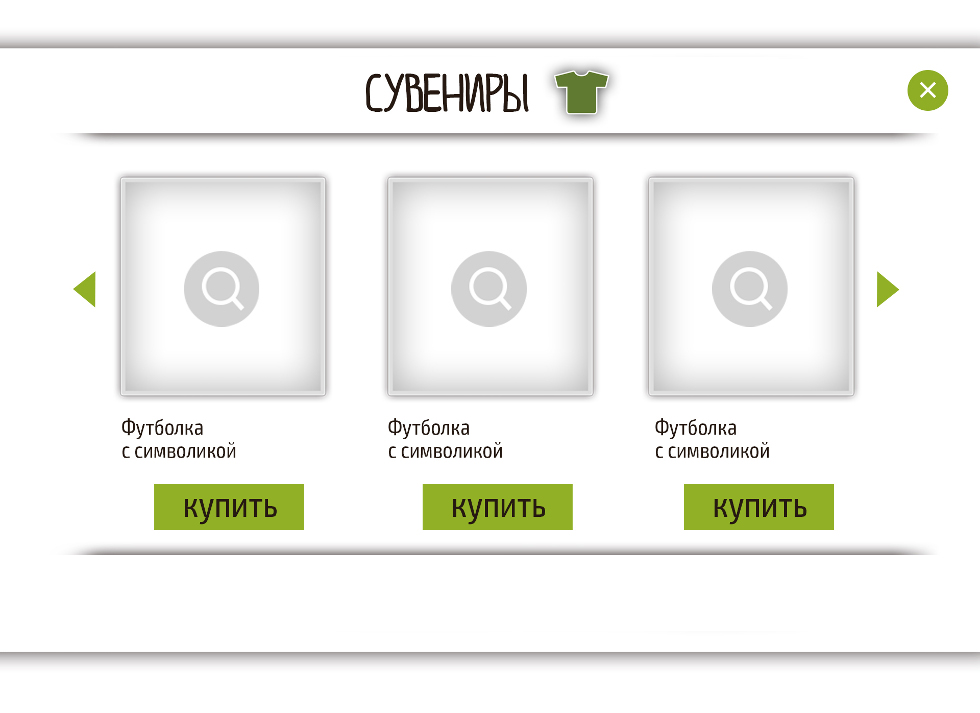
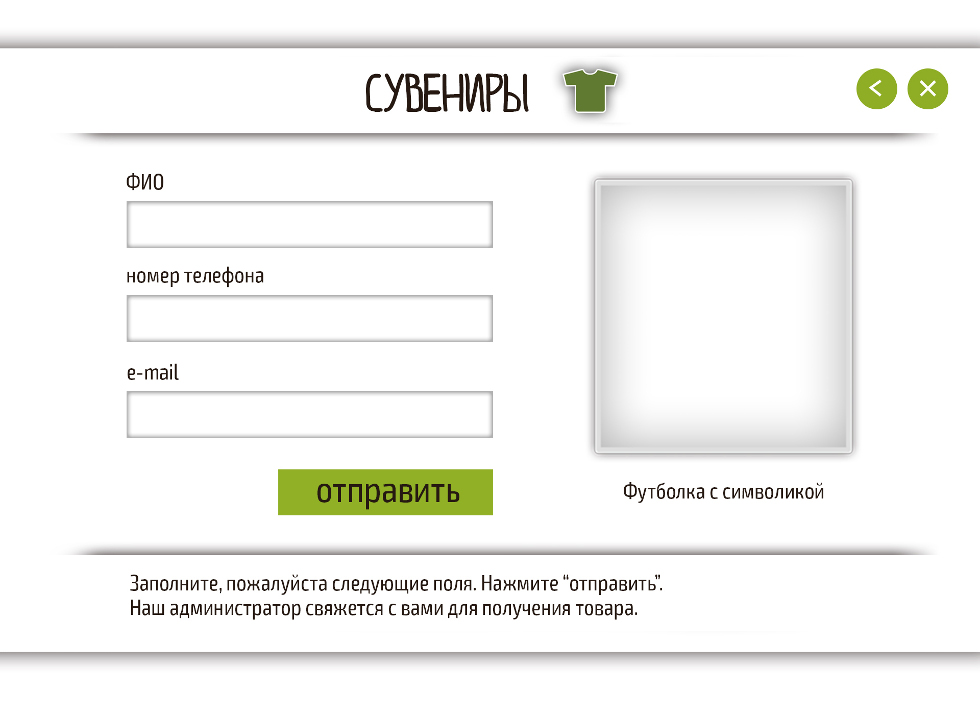
Add souvenir order form

diff --git a/src/main/js/components/SouvenirOrder/SouvenirOrder.js b/src/main/js/components/SouvenirOrder/SouvenirOrder.js
@@ -1,0 +1,88 @@
+'use strict';
+
+import './SouvenirOrder.css';
+
+import React from 'react';
+
+import SelfUpdatingComponent from '../SelfUpdatingComponent';
+import ModalHeader from '../Modal/ModalHeader/ModalHeader';
+import ModalFooter from '../Modal/ModalFooter/ModalFooter';
+
+import Actions from '../../actions/Actions';
+import SouvenirsStore from '../../stores/SouvenirsStore';
+
+export default class SouvenirOrder extends SelfUpdatingComponent {
+    constructor(props) {
+        super(props);
+        this.store = SouvenirsStore;
+        this.lazyLoadStoreAction = Actions.lazyLoadSouvenirs;
+
+        this.submitForm = this.submitForm.bind(this);
+    }
+
+    onPropsChange(props, storeState) {
+        if (!storeState.loaded) {
+            this.setState({ loaded: false });
+            return;
+        }
+        this.setState({
+            loaded: true,
+            souvenir: this.store.getSouvenirById(parseInt(props.params.souvenirId, 10)),
+            form: {
+                fio: "",
+                phone: "",
+                email: ""
+            }
+        });
+    }
+
+    submitForm() {
+        if (console)
+            console.log("Отпарвка зарабоатет, когда появится админка");
+    }
+
+    render() {
+        if (this.state.loaded === false)
+            return (<div className="modal_loader">Загрузка сувениров...</div>);
+        var souvenir = this.state.souvenir;
+        var imageElement = souvenir.photoName ?
+            <img src={`/images/photos/souvenirs/${souvenir.photoName}`} alt="image" className="souvenirOrder_image"/>
+            : null;
+        return (
+            <div className="souvenirOrder">
+                <ModalHeader title="СУВЕНИРЫ" iconType="t-shirt" backUrl="/souvenirs"/>
+                <div className="souvenirOrder_content modal_content">
+                    <div className="souvenirOrder_left">
+                        <form onSubmit={this.submitForm}>
+                            <div className="souvenirOrder_row">
+                                <div className="souvenirOrder_text">ФИО</div>
+                                <input type="text" onChange={this.handleFioChange} />
+                            </div>
+                            <div className="souvenirOrder_row">
+                                <div className="souvenirOrder_text">номер телефона</div>
+                                <input type="text" onChange={this.handlePhonehange} />
+                            </div>
+                            <div className="souvenirOrder_row">
+                                <div className="souvenirOrder_text">e-mail</div>
+                                <input type="text" onChange={this.handleEmailChange} />
+                            </div>
+                            <div className="button souvenirOrder_submitButton" onClick={this.submitForm}>отправить</div>
+                        </form>
+                    </div>
+                    <div className="souvenirOrder_right">
+                        <div className="photoFrame souvenirOrder_photoFrame">
+                            {imageElement}
+                        </div>
+                        <div className="souvenirOrder_souvenirName">{souvenir.name}</div>
+                    </div>
+                </div>
+                <ModalFooter>
+                    <div className="souvenirOrder_footerText">
+                        Заполните, пожалуйста, следующие поля. Нажмите "отправить".<br/>
+                        Наш администратор свяжется с вами для получения товара.
+                    </div>
+                </ModalFooter>
+            </div>
+        );
+    }
+}

diff --git a/src/main/js/app/app.js b/src/main/js/app/app.js
@@ -18,6 +18,7 @@ import GraduateEdit from '../components/GraduateEdit/GraduateEdit';
 import Teachers from '../components/Teachers/Teachers';
 import Administration from '../components/Administration/Administration';
 import Souvenirs from '../components/Souvenirs/Souvenirs';
+import SouvenirOrder from '../components/SouvenirOrder/SouvenirOrder';
 import {triggerClickEvent} from '../utils';
 
 class EmptyModal extends React.Component {
@@ -61,6 +62,12 @@ class AdministrationModal extends React.Component {
 class SouvenirsModal extends React.Component {
   render() {
     return renderModalWithComponent(Souvenirs, this.props.params);
+  }
+}
+
+class SouvenirOrderModal extends React.Component {
+  render() {
+    return renderModalWithComponent(SouvenirOrder, this.props.params);
   }
 }
 
@@ -119,6 +126,7 @@ class App {
         <Route path="/teachers(/:teacherId)" component={TeachersModal}/>
         <Route path="/administration(/:employeeId)" component={AdministrationModal}/>
         <Route path="/souvenirs" component={SouvenirsModal}/>
+        <Route path="/souvenirs/order/:souvenirId" component={SouvenirOrderModal}/>
         <Route path="*" component={null}/>
       </Router>
     ), document.getElementsByClassName('ReactModalPortal')[0]);

diff --git a/src/main/js/components/SouvenirOrder/SouvenirOrder.css b/src/main/js/components/SouvenirOrder/SouvenirOrder.css
@@ -1,0 +1,63 @@
+.souvenirOrder_left, .souvenirOrder_right {
+    display: inline-block;
+    vertical-align: top;
+}
+
+.souvenirOrder_left {
+    margin: 33px 0 0 75px;
+}
+
+.souvenirOrder_text {
+    font-size: 22px;
+    margin-bottom: 8px;
+}
+
+.souvenirOrder_row {
+    margin-bottom: 12px;
+}
+
+.souvenirOrder input[type="text"] {
+    width: 355px;
+}
+
+.souvenirOrder_submitButton {
+    margin: 32px 0 0 151px;
+    color: black;
+    width: 216px;
+    line-height: 38px;
+}
+
+.souvenirOrder_right {
+    margin: 36px 0 0 92px;
+}
+
+.souvenirOrder_photoFrame {
+    width: 241px;
+    height: 257px;
+    background-size: 277px 293px;
+    padding: 18px;
+    display: -webkit-box;
+    display: -moz-box;
+    display: -ms-flexbox;
+    display: -webkit-flex;
+    display: flex;
+    align-items: center;
+    justify-content: center;
+}
+
+.souvenirOrder_image {
+    max-width: 242px;
+    max-height: 256px;
+}
+
+.souvenirOrder_souvenirName {
+    font-size: 22px;
+    margin-top: 14px;
+    text-align: center;
+    width: 277px;
+}
+
+.souvenirOrder_footerText {
+    font-size: 22px;
+    margin: 13px 0 0 120px;
+}

diff --git a/src/main/js/components/GraduateEdit/GraduateEdit.js b/src/main/js/components/GraduateEdit/GraduateEdit.js
@@ -1,4 +1,4 @@
-"use strict";
+'use strict';
 
 import './GraduateEdit.css';
 import './GraduateEdit-placeholders.css';
@@ -7,7 +7,7 @@ import React from 'react';
 import MaskedInput from 'react-maskedinput';
 import FileDrop from 'react-file-drop';
 
-import GraduateClassesStore from '../../stores/GraduateClassesStore'
+import GraduateClassesStore from '../../stores/GraduateClassesStore';
 
 import ModalHeader from '../Modal/ModalHeader/ModalHeader';
 import ModalFooter from '../Modal/ModalFooter/ModalFooter';
@@ -62,8 +62,9 @@ export default class GraduateEdit extends React.Component {
     }
 
     handleSubmit() {
-        console.log(this.state);
-        alert("Отправка данных на сервер заработает, когда появится админка");
+        // console.log(this.state);
+        if (console)
+            console.log("Отпарвка зарабоатет, когда появится админка");
     }
 
     handleFioChange(event) {

diff --git a/src/main/js/components/Souvenirs/Souvenirs.js b/src/main/js/components/Souvenirs/Souvenirs.js
@@ -46,6 +46,12 @@ export default class Souvenirs extends SelfUpdatingComponent {
 
     handleItemClick(event) {
         console.log(event.currentTarget.getAttribute("data-id"));
+        
+    }
+
+    handleBuyButtonClick(event) {
+        var id = event.currentTarget.getAttribute("data-id");
+        Actions.routeTo(`/souvenirs/order/${id}`)
     }
 
     render() {
@@ -66,7 +72,7 @@ export default class Souvenirs extends SelfUpdatingComponent {
                         {imageElements}
                     </div>
                     <div className="souvenirs_itemName">{obj.name}</div>
-                    <div className="souvenirs_buyButton">КУПИТЬ</div>
+                    <div className="button souvenirs_buyButton" data-id={obj.id} onClick={this.handleBuyButtonClick}>КУПИТЬ</div>
                 </div>
             )
         }

diff --git a/src/main/js/components/GraduateClass/GraduateInfo/GraduateInfo.js b/src/main/js/components/GraduateClass/GraduateInfo/GraduateInfo.js
@@ -104,7 +104,7 @@ export default class GraduateInfo extends React.Component {
                 <div className="graduateInfo">
                     <div className="graduateInfo_left">
                         <div className="photoFrame graduateInfo_photoFrame">
-                            <img src={photoSrc} alt="photo" className="graduateInfo_photo"></img>
+                            <img src={photoSrc} alt="photo" className="graduateInfo_photo"/>
                         </div>
                         <div className="GraduateInfo_links">
                             {generateLink(graduate.facebookLink, "graduateInfo_socialLogo facebookLogo")}

diff --git a/src/main/js/app/app.css b/src/main/js/app/app.css
@@ -104,3 +104,30 @@ body {
 .arrow_right {
     background-image: url(./images/arrow_right.png);
 }
+
+/* inputs */
+
+input, textarea {
+    font-family: 'Exo 2 LightCondensed';
+    border: solid 1px lightgrey;
+    box-shadow: 0px 0px 2px 1px darkgrey inset;
+    padding: 0 5px;
+}
+
+input {
+    height: 46px;
+    font-size: 40px;
+}
+
+textarea {
+    font-size: 30px;
+}
+
+.button {
+    height: 46px;
+    color: white;
+    background-color: #91b026;
+    text-align: center;
+    cursor: pointer;
+    font-size: 36px;
+}

diff --git a/src/main/js/components/GraduateEdit/GraduateEdit.css b/src/main/js/components/GraduateEdit/GraduateEdit.css
@@ -33,24 +33,8 @@
     margin: 17px 0 0 50px;
 }
 
-.graduateEdit input, .graduateEdit textarea {
-    font-family: 'Exo 2 LightCondensed';
-    border: solid 1px lightgrey;
-    box-shadow: 0px 0px 2px 1px darkgrey inset;
-    padding: 0 5px;
-}
-
 .graduateEdit .graduateEdit_left input, .graduateEdit .graduateEdit_left textarea {
     margin-bottom: 16px;
-}
-
-.graduateEdit input {
-    height: 46px;
-    font-size: 40px;
-}
-
-.graduateEdit textarea {
-    font-size: 30px;
 }
 
 .graduateEdit_yearAndClass {

diff --git a/src/main/js/stores/SouvenirsStore.js b/src/main/js/stores/SouvenirsStore.js
@@ -17,7 +17,7 @@ var SouvenirsStore = Reflux.createStore({
     getSouvenirById(id) {
         if (!this.state.loaded)
             throw new Error("SouvenirsStore is not loaded yet");
-        var found = this.state.list.find(teacher => teacher.id === id);
+        var found = this.state.list.find(souvenir => souvenir.id === id);
         if (!found)
             throw new Error(`Cannot find souvenir with id ${id}`);
         return found;

diff --git a/src/main/js/components/Souvenirs/Souvenirs.css b/src/main/js/components/Souvenirs/Souvenirs.css
@@ -58,14 +58,14 @@
     margin: 10px 0 0 8px;
 }
 
-.souvenirs_buyButton {
-    cursor: pointer;
+.button.souvenirs_buyButton {
+    color: black;
     margin: 45px 0 0 41px;
-    width: 115px;
-    height: 40px;
+    width: 149px;
     background-color: #91b026;
-    font-size: 27px;
-    padding: 6px 0 0 35px;
+    font-size: 28px;
+    line-height: 45px;
+    /*padding: 6px 0 0 35px;*/
 }
 
 .souvenirs_items {
